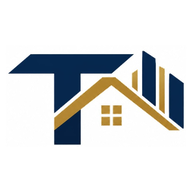
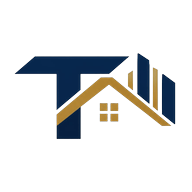
feat: Integrate isolated official brand mark across website assets and branding
- Process newly uploaded isolated brand emblem into high-res transparent logo-mark.png
- Generate dark-mode variant logo-mark-white.png for deep navy surfaces
- Re-render retina horizontal brand lockup (logo-horizontal.png) with precise typography
- Re-render dark footer lockup (logo-white.png) and stacked brand lockup (logo.png)
- Re-generate multi-resolution favicon.ico, favicon.png, apple-touch-icon.png, and PWA icons
- Clean up legacy duplicate CSS rules and optimize header logo max-width in style.css
- Bump asset query version to v3.2 across index.html, about.html, services.html, contact.html

Changed region(s): [[0.0312, 0.25, 0.9688, 0.7812], [0.5, 0.5312, 0.6562, 0.6562]]

diff --git a/index.html b/index.html
@@ -28,7 +28,7 @@
     <meta property="twitter:image" content="https://www.tabeebcontractor.com/images/hero-bg.png">
     
     <!-- CSS Stylesheet (Versioned to guarantee immediate refresh) -->
-    <link rel="stylesheet" href="style.css?v=3.1">
+    <link rel="stylesheet" href="style.css?v=3.2">
 </head>
 <body>
 
@@ -53,7 +53,7 @@
             <div class="container">
                 <div class="header-wrapper">
                     <a href="/" class="logo" id="header-logo" aria-label="Tabeeb Contractor Pte Ltd">
-                        <img src="images/logo-horizontal.png" alt="Tabeeb Contractor Pte Ltd - Building Better Spaces" class="header-logo-img">
+                        <img src="images/logo-horizontal.png?v=3.2" alt="Tabeeb Contractor Pte Ltd - Building Better Spaces" class="header-logo-img">
                     </a>
                     <nav>
                         <ul class="nav-list" id="nav-list">
@@ -541,7 +541,7 @@
             <div class="footer-grid">
                 <div class="footer-col footer-brand-col">
                     <a href="/" class="footer-logo-link" aria-label="Tabeeb Contractor Pte Ltd">
-                        <img src="images/logo-white.png" alt="Tabeeb Contractor Pte Ltd - Building Better Spaces" class="footer-logo-img" width="220">
+                        <img src="images/logo-white.png?v=3.2" alt="Tabeeb Contractor Pte Ltd - Building Better Spaces" class="footer-logo-img" width="220">
                     </a>
                     <p>Tabeeb Contractor Pte Ltd is a premier general contracting firm specializing in commercial and residential renovation, hacking, reinstatement, architectural finishing, waterproofing, and structural alterations in Singapore.</p>
                 </div>

diff --git a/contact.html b/contact.html
@@ -28,7 +28,7 @@
     <meta property="twitter:image" content="https://www.tabeebcontractor.com/images/hero-bg.png">
     
     <!-- CSS Stylesheet (Versioned to guarantee immediate refresh) -->
-    <link rel="stylesheet" href="style.css?v=3.1">
+    <link rel="stylesheet" href="style.css?v=3.2">
 </head>
 <body>
 
@@ -53,7 +53,7 @@
             <div class="container">
                 <div class="header-wrapper">
                     <a href="/" class="logo" id="header-logo" aria-label="Tabeeb Contractor Pte Ltd">
-                        <img src="images/logo-horizontal.png" alt="Tabeeb Contractor Pte Ltd - Building Better Spaces" class="header-logo-img">
+                        <img src="images/logo-horizontal.png?v=3.2" alt="Tabeeb Contractor Pte Ltd - Building Better Spaces" class="header-logo-img">
                     </a>
                     <nav>
                         <ul class="nav-list" id="nav-list">
@@ -255,7 +255,7 @@
             <div class="footer-grid">
                 <div class="footer-col footer-brand-col">
                     <a href="/" class="footer-logo-link" aria-label="Tabeeb Contractor Pte Ltd">
-                        <img src="images/logo-white.png" alt="Tabeeb Contractor Pte Ltd - Building Better Spaces" class="footer-logo-img" width="220">
+                        <img src="images/logo-white.png?v=3.2" alt="Tabeeb Contractor Pte Ltd - Building Better Spaces" class="footer-logo-img" width="220">
                     </a>
                     <p>Tabeeb Contractor Pte Ltd is a premier contracting firm specializing in commercial and residential renovation, hacking, reinstatement, architectural finishing, waterproofing, and structural alterations in Singapore.</p>
                 </div>

diff --git a/services.html b/services.html
@@ -28,7 +28,7 @@
     <meta property="twitter:image" content="https://www.tabeebcontractor.com/images/hero-bg.png">
     
     <!-- CSS Stylesheet (Versioned to guarantee immediate refresh) -->
-    <link rel="stylesheet" href="style.css?v=3.1">
+    <link rel="stylesheet" href="style.css?v=3.2">
 </head>
 <body>
 
@@ -53,7 +53,7 @@
             <div class="container">
                 <div class="header-wrapper">
                     <a href="/" class="logo" id="header-logo" aria-label="Tabeeb Contractor Pte Ltd">
-                        <img src="images/logo-horizontal.png" alt="Tabeeb Contractor Pte Ltd - Building Better Spaces" class="header-logo-img">
+                        <img src="images/logo-horizontal.png?v=3.2" alt="Tabeeb Contractor Pte Ltd - Building Better Spaces" class="header-logo-img">
                     </a>
                     <nav>
                         <ul class="nav-list" id="nav-list">
@@ -307,7 +307,7 @@
             <div class="footer-grid">
                 <div class="footer-col footer-brand-col">
                     <a href="/" class="footer-logo-link" aria-label="Tabeeb Contractor Pte Ltd">
-                        <img src="images/logo-white.png" alt="Tabeeb Contractor Pte Ltd - Building Better Spaces" class="footer-logo-img" width="220">
+                        <img src="images/logo-white.png?v=3.2" alt="Tabeeb Contractor Pte Ltd - Building Better Spaces" class="footer-logo-img" width="220">
                     </a>
                     <p>Tabeeb Contractor Pte Ltd is a premier contracting firm specializing in commercial and residential renovation, hacking, reinstatement, architectural finishing, waterproofing, and structural alterations in Singapore.</p>
                 </div>

diff --git a/about.html b/about.html
@@ -28,7 +28,7 @@
     <meta property="twitter:image" content="https://www.tabeebcontractor.com/images/hero-bg.png">
     
     <!-- CSS Stylesheet (Versioned to guarantee immediate refresh) -->
-    <link rel="stylesheet" href="style.css?v=3.1">
+    <link rel="stylesheet" href="style.css?v=3.2">
 </head>
 <body>
 
@@ -53,7 +53,7 @@
             <div class="container">
                 <div class="header-wrapper">
                     <a href="/" class="logo" id="header-logo" aria-label="Tabeeb Contractor Pte Ltd">
-                        <img src="images/logo-horizontal.png" alt="Tabeeb Contractor Pte Ltd - Building Better Spaces" class="header-logo-img">
+                        <img src="images/logo-horizontal.png?v=3.2" alt="Tabeeb Contractor Pte Ltd - Building Better Spaces" class="header-logo-img">
                     </a>
                     <nav>
                         <ul class="nav-list" id="nav-list">
@@ -178,7 +178,7 @@
             <div class="footer-grid">
                 <div class="footer-col footer-brand-col">
                     <a href="/" class="footer-logo-link" aria-label="Tabeeb Contractor Pte Ltd">
-                        <img src="images/logo-white.png" alt="Tabeeb Contractor Pte Ltd - Building Better Spaces" class="footer-logo-img" width="220">
+                        <img src="images/logo-white.png?v=3.2" alt="Tabeeb Contractor Pte Ltd - Building Better Spaces" class="footer-logo-img" width="220">
                     </a>
                     <p>Tabeeb Contractor Pte Ltd is a premier contracting firm specializing in hacking, commercial reinstatement, renovation, architectural finishing, waterproofing, and structural alterations in Singapore.</p>
                 </div>

diff --git a/style.css b/style.css
@@ -408,7 +408,7 @@ img {
 .header-logo-img {
     height: 52px;
     width: auto;
-    max-width: 270px;
+    max-width: 310px;
     object-fit: contain;
     display: block;
     transition: var(--transition-fast);
@@ -505,7 +505,7 @@ img {
 }
 
 .footer-logo-img {
-    max-width: 240px;
+    max-width: 280px;
     height: auto;
     display: block;
     filter: drop-shadow(0 4px 12px rgba(0, 0, 0, 0.4));
@@ -515,65 +515,6 @@ img {
 .footer-logo-link:hover .footer-logo-img {
     opacity: 0.94;
     transform: translateY(-2px);
-}
-
-.nav-list {
-    display: flex;
-    list-style: none;
-    gap: 32px;
-    align-items: center;
-}
-
-.nav-link {
-    font-family: var(--font-heading);
-    font-weight: 500;
-    font-size: 15px;
-    color: rgba(255, 255, 255, 0.85);
-    position: relative;
-    padding: 8px 0;
-    transition: var(--transition-fast);
-}
-
-.nav-link::after {
-    content: '';
-    position: absolute;
-    bottom: 0;
-    left: 0;
-    width: 0;
-    height: 2px;
-    background-color: var(--color-accent);
-    transition: var(--transition-fast);
-}
-
-.nav-link:hover::after,
-.nav-link.active::after {
-    width: 100%;
-}
-
-.nav-link:hover,
-.nav-link.active {
-    color: var(--color-accent);
-}
-
-/* Burger Menu */
-.burger {
-    display: none;
-    cursor: pointer;
-    background: transparent;
-    border: none;
-    z-index: 1100;
-}
-
-.burger div {
-    width: 25px;
-    height: 3px;
-    background-color: var(--color-primary);
-    margin: 5px;
-    transition: var(--transition-normal);
-}
-
-.header.scrolled .burger div {
-    background-color: var(--color-bg-white);
 }
 
 /* Hero Section */
